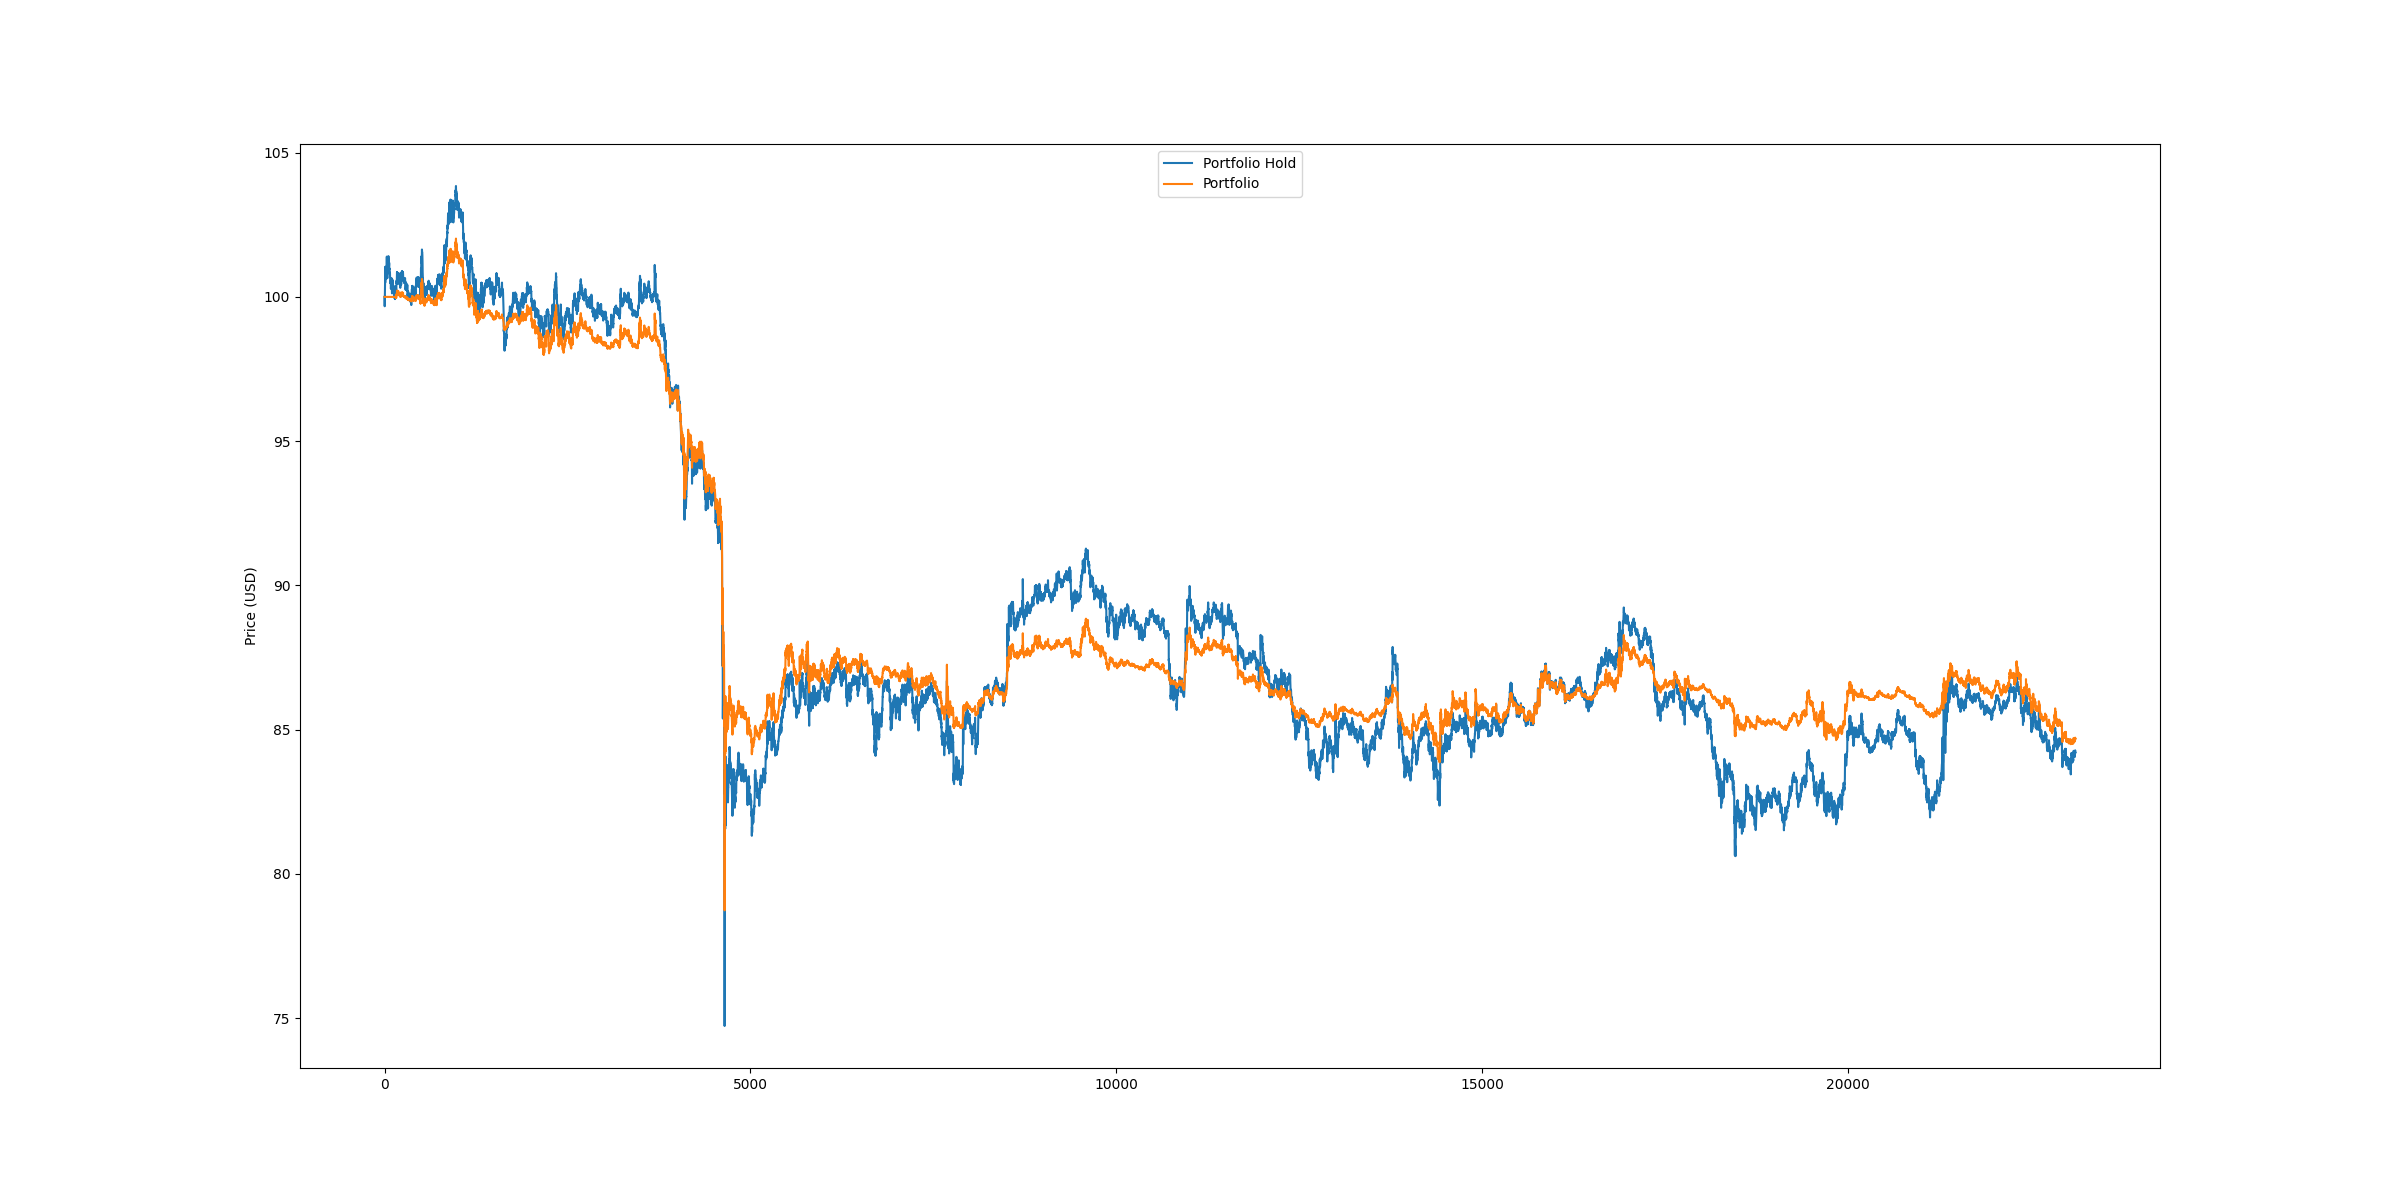
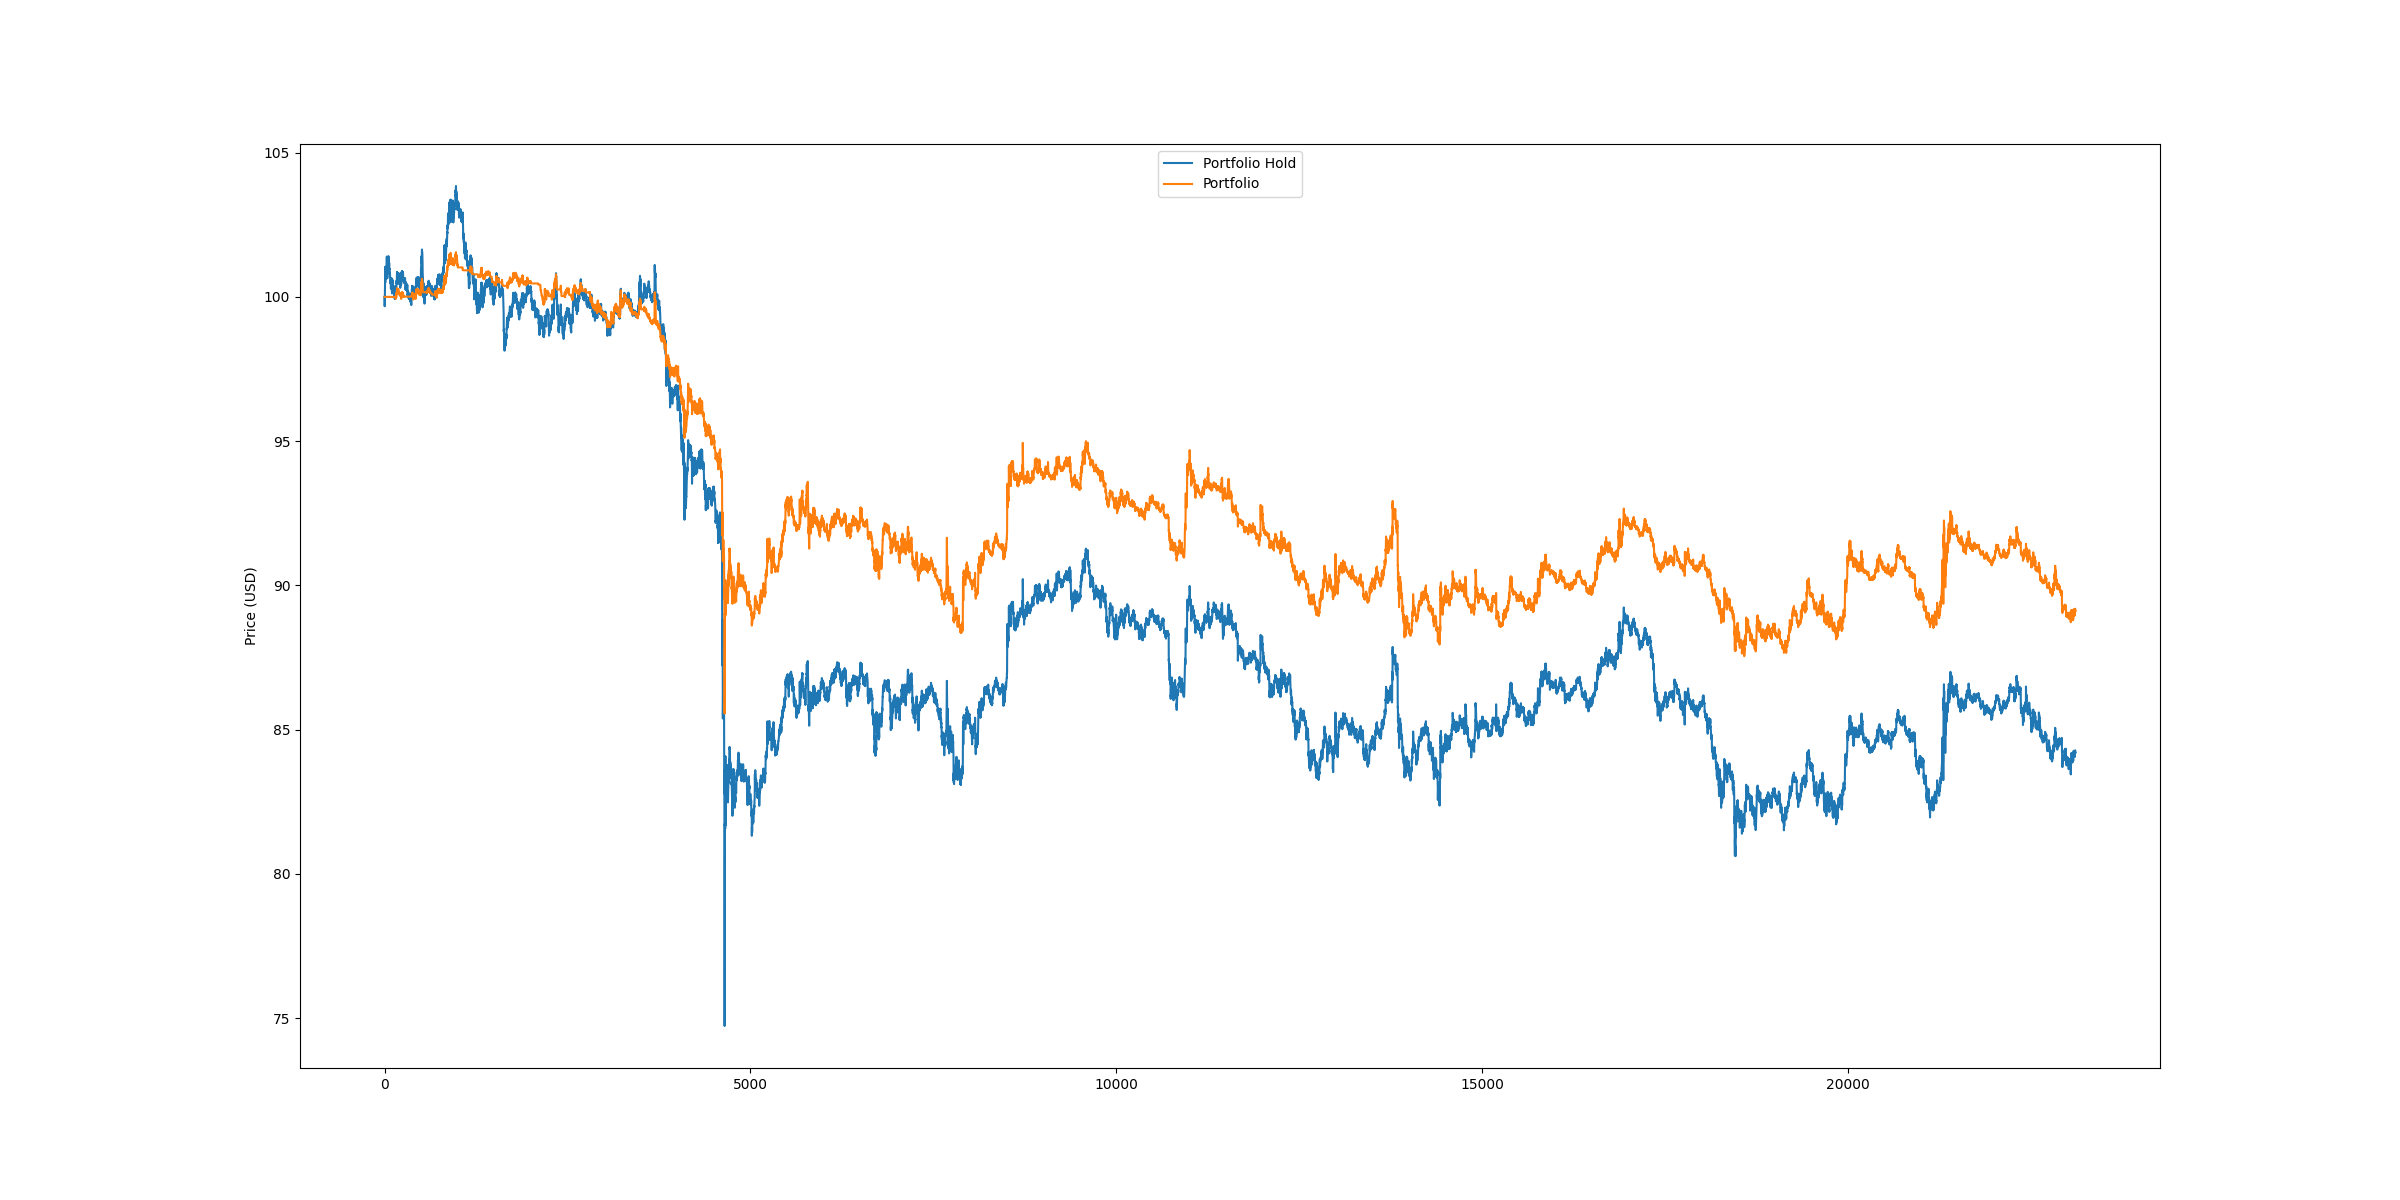
remove comments

diff --git a/src/backtest.py b/src/backtest.py
@@ -42,12 +42,6 @@ def plot_data(x_data, y_data, labels, name):
 
 def run_backtest(strat, port, df):
 
-    # start_fiat = port.get_fiat_quantity()
-    # start_coin = start_fiat / df['close'][0]
-
-    # usd = start_usd
-    # btc = None
-
     start_fiat = port.get_fiat_quantity()
     start_coin = start_fiat / df['close'][0]
 
@@ -87,7 +81,8 @@ def run_backtest(strat, port, df):
         print(f'{port.get_fiat()}: {port.get_fiat_quantity()} {port.get_coin()}: {port.get_coin_quantity()} total value ({port.get_fiat()}): {port.get_value_in_fiat(coin_price=price)}')
         print('--------------\n')
 
-    percent_change = ((portfolio[-1] - start_fiat) / start_fiat) * 100
+    percent_change = ((portfolio.get_value_in_fiat() -
+                      start_fiat) / start_fiat) * 100
 
     plot_data(x_data=[range(len(coin_price)), range(len(mvas))],
               y_data=[coin_price, mvas],
@@ -111,12 +106,12 @@ if __name__ == '__main__':
 
     # Goal: user can enter any pair of currencies, for example BTC - USD, and the script will run all the specified backtests
 
-    strategies = [SimpleMVA(period=5, equity_per_trade=0.20),
-                  SimpleMVA(period=10, equity_per_trade=0.20),
-                  SimpleMVA(period=20, equity_per_trade=0.20),
-                  SimpleMVA(period=60, equity_per_trade=0.20),
-                  SimpleMVA(period=144, equity_per_trade=0.20),
-                  SimpleMVA(period=1440, equity_per_trade=0.20)]
+    strategies = [SimpleMVA(period=5, equity_per_trade=0.50),
+                  SimpleMVA(period=10, equity_per_trade=0.50),
+                  SimpleMVA(period=20, equity_per_trade=0.50),
+                  SimpleMVA(period=60, equity_per_trade=0.50),
+                  SimpleMVA(period=144, equity_per_trade=0.50),
+                  SimpleMVA(period=1440, equity_per_trade=0.50)]
 
     portfolios = [Portfolio(coin='BTC', coin_quantity=0,
                             fiat='USD', fiat_quantity=100),
